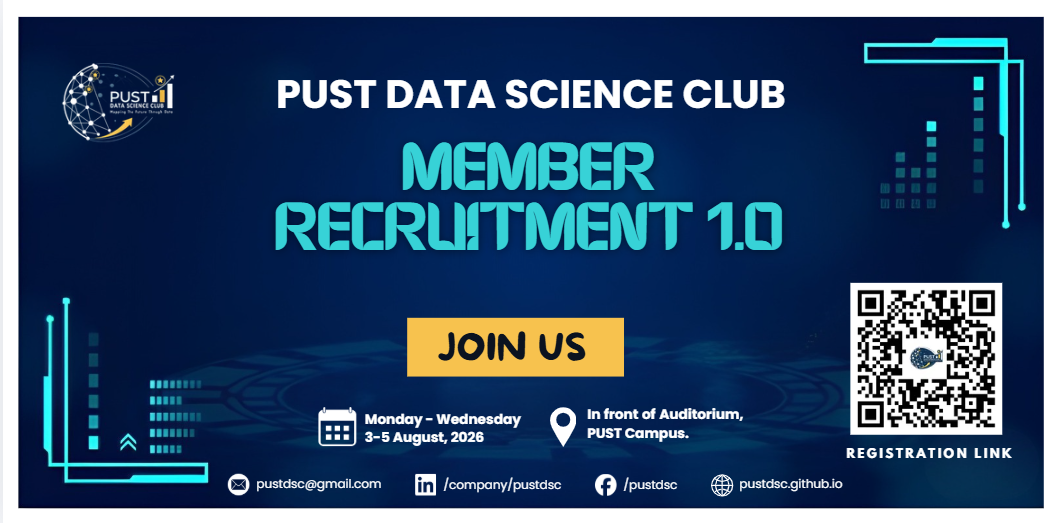
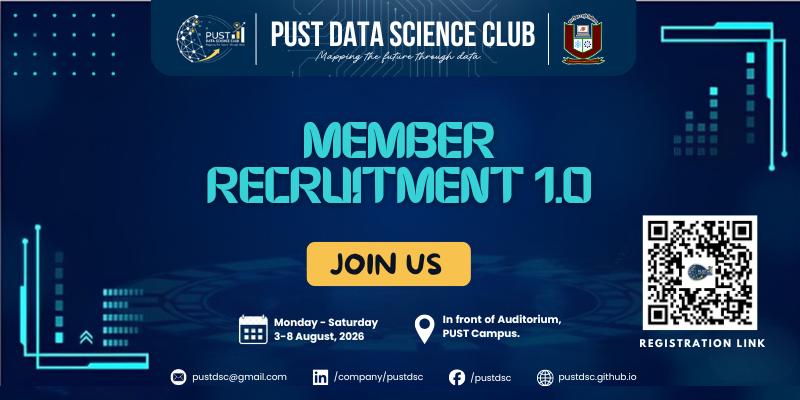
Extend registration dates to August 8 and add DataCamp official partner section

diff --git a/src/app/page.tsx b/src/app/page.tsx
@@ -4,7 +4,7 @@ import { useState, useEffect } from "react";
 import Link from "next/link";
 import Image from "next/image";
 import { siteData } from "@/data/data";
-import { BrainCircuit, FlaskConical, Network, Search, Database, FileText, Cpu, ExternalLink, Sparkles, Globe, Eye, Mic, Bot, Gamepad2, Smartphone, ArrowUpRight, Layers } from "lucide-react";
+import { BrainCircuit, FlaskConical, Network, Search, Database, FileText, Cpu, ExternalLink, Sparkles, Globe, Eye, Mic, Bot, Gamepad2, Smartphone, ArrowUpRight, Layers, Gift, GraduationCap, Award, CheckCircle2 } from "lucide-react";
 import { motion, AnimatePresence } from "framer-motion";
 
 const gallerySlides = [
@@ -308,7 +308,7 @@ export default function Home() {
   useEffect(() => {
     const calculateTimeLeft = () => {
       const startDate = new Date("2026-08-02T22:00:00+06:00").getTime();
-      const endDate = new Date("2026-08-05T23:59:59+06:00").getTime();
+      const endDate = new Date("2026-08-08T23:59:59+06:00").getTime();
       const now = new Date().getTime();
 
       if (now > endDate) {
@@ -416,7 +416,7 @@ export default function Home() {
         </div>
       </section>
 
-      {/* ═══ RECRUITMENT COUNTDOWN BANNER (Below Hero, Vanishes after 5 Aug 23:59) ═══ */}
+      {/* ═══ RECRUITMENT COUNTDOWN BANNER (Below Hero, Vanishes after 8 Aug 23:59) ═══ */}
       {recruitmentBannerState !== "ended" && bannerTimeLeft && (
         <section className="-mx-[16px] sm:-mx-[20px] lg:-mx-[32px] -mt-16 sm:-mt-20 bg-slate-900 border-y border-blue-900/50 text-white relative z-30 shadow-md">
           <div className="mx-auto max-w-7xl px-4 py-3 sm:py-4 flex flex-col md:flex-row items-center justify-between gap-3 text-center md:text-left">
@@ -437,8 +437,8 @@ export default function Home() {
 
               <p className="text-xs sm:text-sm font-semibold text-slate-200">
                 {recruitmentBannerState === "open"
-                  ? "Official Registration is LIVE & ONGOING! (3–5 August)"
-                  : "Official Member Registration Starts 3–5 August 2026"}
+                  ? "Official Registration Extended! LIVE & ONGOING till 8 August"
+                  : "Official Member Registration Starts 3–8 August 2026"}
               </p>
             </div>
 
@@ -468,6 +468,68 @@ export default function Home() {
           </div>
         </section>
       )}
+
+      {/* ═══ OFFICIAL EDUCATION PARTNER: DATACAMP (Balanced Layout) ═══ */}
+      <section className="-mx-[16px] sm:-mx-[20px] lg:-mx-[32px] my-6 border-y border-slate-200/80 bg-slate-50/70 py-6 sm:py-7 md:py-8 px-4 sm:px-8 lg:px-12">
+        <div className="mx-auto max-w-6xl flex flex-col md:flex-row items-center justify-between gap-6 md:gap-10">
+
+          {/* Left Column: Exact Partnership Logo Card */}
+          <div className="shrink-0 w-full md:w-auto flex justify-center md:justify-start">
+            <div className="inline-flex items-center justify-center bg-white border border-slate-200/90 rounded-2xl shadow-2xs px-5 py-3.5 sm:px-6 sm:py-4 gap-4 sm:gap-5 max-w-full overflow-x-auto">
+              {/* Left: PUST DSC Logo + Red Line + Stacked Name */}
+              <div className="flex items-center gap-3 shrink-0">
+                <div className="w-9 h-9 sm:w-10 sm:h-10 rounded-md overflow-hidden bg-[#0a192f] p-1 flex items-center justify-center shrink-0">
+                  <Image
+                    src="/images/logo/logo.png"
+                    alt="PUST DSC Logo"
+                    width={40}
+                    height={40}
+                    className="w-full h-full object-contain"
+                  />
+                </div>
+                <div className="h-7 sm:h-8 w-[2px] bg-[#c02626] shrink-0 rounded-full" />
+                <div className="text-left font-space-grotesk font-black text-slate-900 leading-[1.1] tracking-tight uppercase text-[10px] sm:text-[11px] md:text-xs select-none">
+                  <p>PUST</p>
+                  <p>DATA SCIENCE</p>
+                  <p>CLUB</p>
+                </div>
+              </div>
+
+              {/* Middle: Partnership Cross Symbol */}
+              <div className="text-slate-700 text-base sm:text-lg md:text-xl font-light px-0.5 select-none shrink-0">
+                ✕
+              </div>
+
+              {/* Right: DataCamp Donates Logo */}
+              <div className="shrink-0 flex items-center">
+                <Image
+                  src="/images/logo/DC_Donates_logo_regular.png"
+                  alt="DataCamp Donates"
+                  width={150}
+                  height={40}
+                  className="h-8 sm:h-9 md:h-10 w-auto object-contain"
+                />
+              </div>
+            </div>
+          </div>
+
+          {/* Right Column: Label, Title & Description (Balanced Alignment) */}
+          <div className="space-y-2 text-center md:text-left flex-1 max-w-2xl">
+            <div>
+              <span className="inline-flex items-center px-3.5 py-1 rounded-full bg-blue-50/90 border border-blue-200/80 text-blue-700 text-[11px] md:text-xs font-extrabold uppercase tracking-widest shadow-2xs">
+                Official Education Partner
+              </span>
+            </div>
+            <h2 className="font-space-grotesk text-lg sm:text-xl md:text-2xl lg:text-3xl font-extrabold text-slate-900 tracking-tight leading-snug">
+              1 Year of Free <span className="text-blue-600 font-black">DataCamp Premium</span> Access
+            </h2>
+            <p className="text-xs sm:text-sm md:text-base text-slate-600 leading-relaxed font-normal">
+              PUST Data Science Club has officially partnered with <strong className="text-slate-900 font-semibold">DataCamp Donates</strong> to provide all registered members with 1 year of free DataCamp Premium access.
+            </p>
+          </div>
+
+        </div>
+      </section>
 
       {/* ═══ GALLERY SLIDESHOW ═══ */}
       <section className="w-full py-4 flex flex-col items-center">
@@ -635,6 +697,7 @@ export default function Home() {
           ))}
         </div>
       </section>
+
 
       {/* ═══ SKILLS SHOWCASE ═══ */}
       <section className="w-auto -mx-[16px] md:mx-0 md:w-full py-16 md:py-20 overflow-hidden bg-gradient-to-b from-white via-blue-50/30 to-white">

diff --git a/src/components/RecruitmentForm.tsx b/src/components/RecruitmentForm.tsx
@@ -192,7 +192,7 @@ export default function RecruitmentForm() {
     const calculateTimeLeft = () => {
       // Bangladesh Time GMT+6 (Starts 2 hours before midnight: 2 August 10:00 PM GMT+6)
       const startDate = new Date("2026-08-02T22:00:00+06:00").getTime();
-      const endDate = new Date("2026-08-05T23:59:59+06:00").getTime();
+      const endDate = new Date("2026-08-08T23:59:59+06:00").getTime();
       const now = new Date().getTime();
 
       if (now < startDate) {
@@ -795,7 +795,7 @@ export default function RecruitmentForm() {
                   <span className="animate-ping absolute inline-flex h-full w-full rounded-full bg-emerald-400 opacity-75"></span>
                   <span className="relative inline-flex rounded-full h-2 w-2 bg-emerald-500"></span>
                 </span>
-                Recruitment Open: 3–5 August 2026
+                Recruitment Open: 3–8 August 2026 (Extended)
               </span>
             ) : (
               <span className="inline-flex items-center gap-1.5 text-xs font-semibold text-slate-500 bg-slate-100 px-2.5 py-1 rounded-md border border-slate-200">
@@ -821,6 +821,20 @@ export default function RecruitmentForm() {
 
           {/* Left Column: Overview & Steps */}
           <div className="p-4 sm:p-5 space-y-3.5 border-b lg:border-b-0 lg:border-r border-slate-100 flex flex-col justify-between">
+            {/* DataCamp Perk Highlight */}
+            <div className="p-3 rounded-xl bg-gradient-to-r from-emerald-50/80 via-teal-50/60 to-blue-50/80 border border-emerald-200/90 flex items-center justify-between gap-3 shadow-2xs">
+              <div className="flex items-center gap-2.5">
+                <div className="bg-white p-1 rounded-lg border border-slate-200 shrink-0 shadow-2xs">
+                  {/* eslint-disable-next-line @next/next/no-img-element */}
+                  <img src="/images/logo/DC_Donates_logo_regular.png" alt="DataCamp Donates" className="h-4.5 sm:h-5 w-auto object-contain" />
+                </div>
+                <div>
+                  <p className="text-[11px] font-extrabold text-slate-900 leading-tight">Official Partner Perk</p>
+                  <p className="text-[10px] text-emerald-800 font-bold leading-tight mt-0.5">1 Year Free DataCamp Premium Access ($300+ Value)</p>
+                </div>
+              </div>
+            </div>
+
             {/* Top Group */}
             <div className="space-y-2.5">
               <div className="flex items-center justify-between h-5">
@@ -831,7 +845,7 @@ export default function RecruitmentForm() {
               <div className="grid grid-cols-2 gap-2.5">
                 <div className="p-2.5 sm:p-3 rounded-xl bg-white border border-slate-200/90 shadow-2xs">
                   <p className="text-[9px] font-semibold text-slate-400 uppercase tracking-wider">Registration Period</p>
-                  <p className="font-sans text-xs sm:text-sm font-bold text-slate-900 mt-0.5">3–5 August 2026</p>
+                  <p className="font-sans text-xs sm:text-sm font-bold text-slate-900 mt-0.5">3–8 August 2026 (Extended)</p>
                 </div>
                 <div className="p-2.5 sm:p-3 rounded-xl bg-white border border-slate-200/90 shadow-2xs">
                   <p className="text-[9px] font-semibold text-slate-400 uppercase tracking-wider">Registration Fee</p>
